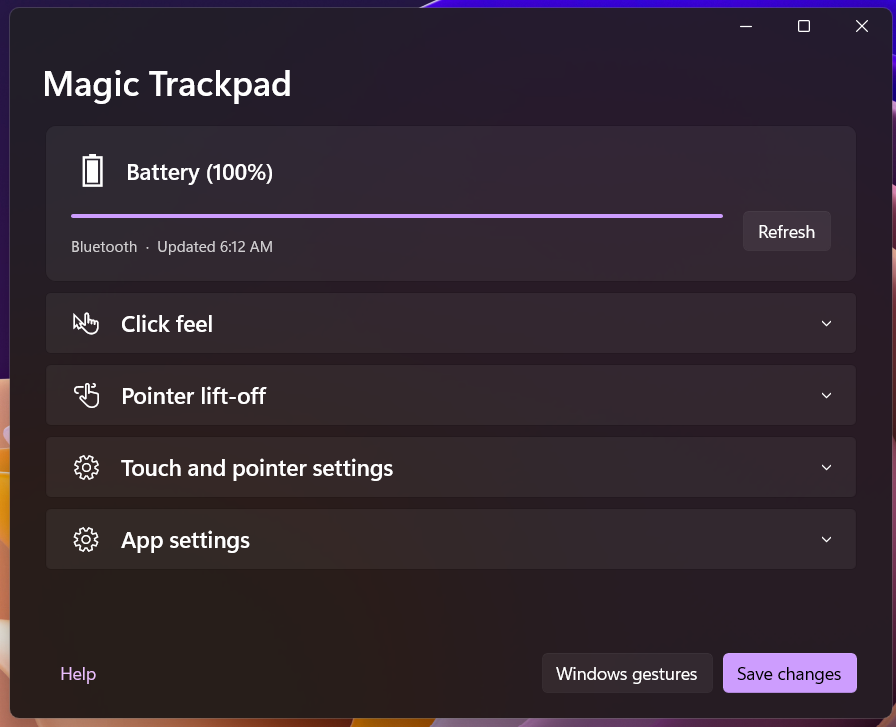
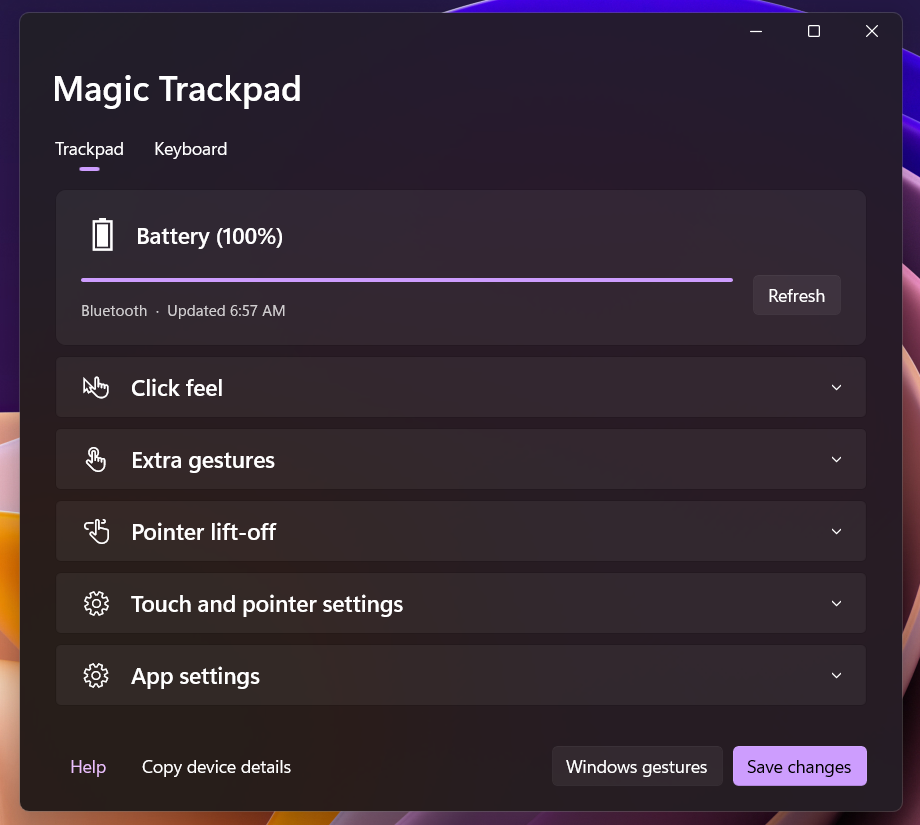
Refresh the README settings screenshot at a compact width

diff --git a/README.md b/README.md
@@ -6,7 +6,7 @@ Built on Vito Plantamura’s [MagicTrackpad2ForWindows](https://github.com/vitop
 
 You can also [type directly on the trackpad](#turn-your-trackpad-into-a-keyboard) and [use customizable five-finger gestures](#five-finger-gestures) beyond the built-in four-finger gestures in Windows.
 
-![Magic Trackpad settings on Windows 11 showing 100% battery over Bluetooth, click feel, and pointer settings](docs/magic-trackpad-settings.png)
+<a href="docs/magic-trackpad-settings.png"><img src="docs/magic-trackpad-settings.png" alt="Magic Trackpad settings showing the Trackpad and Keyboard tabs, Bluetooth battery level, and Extra gestures" width="440"></a>
 
 ## Get started
 
